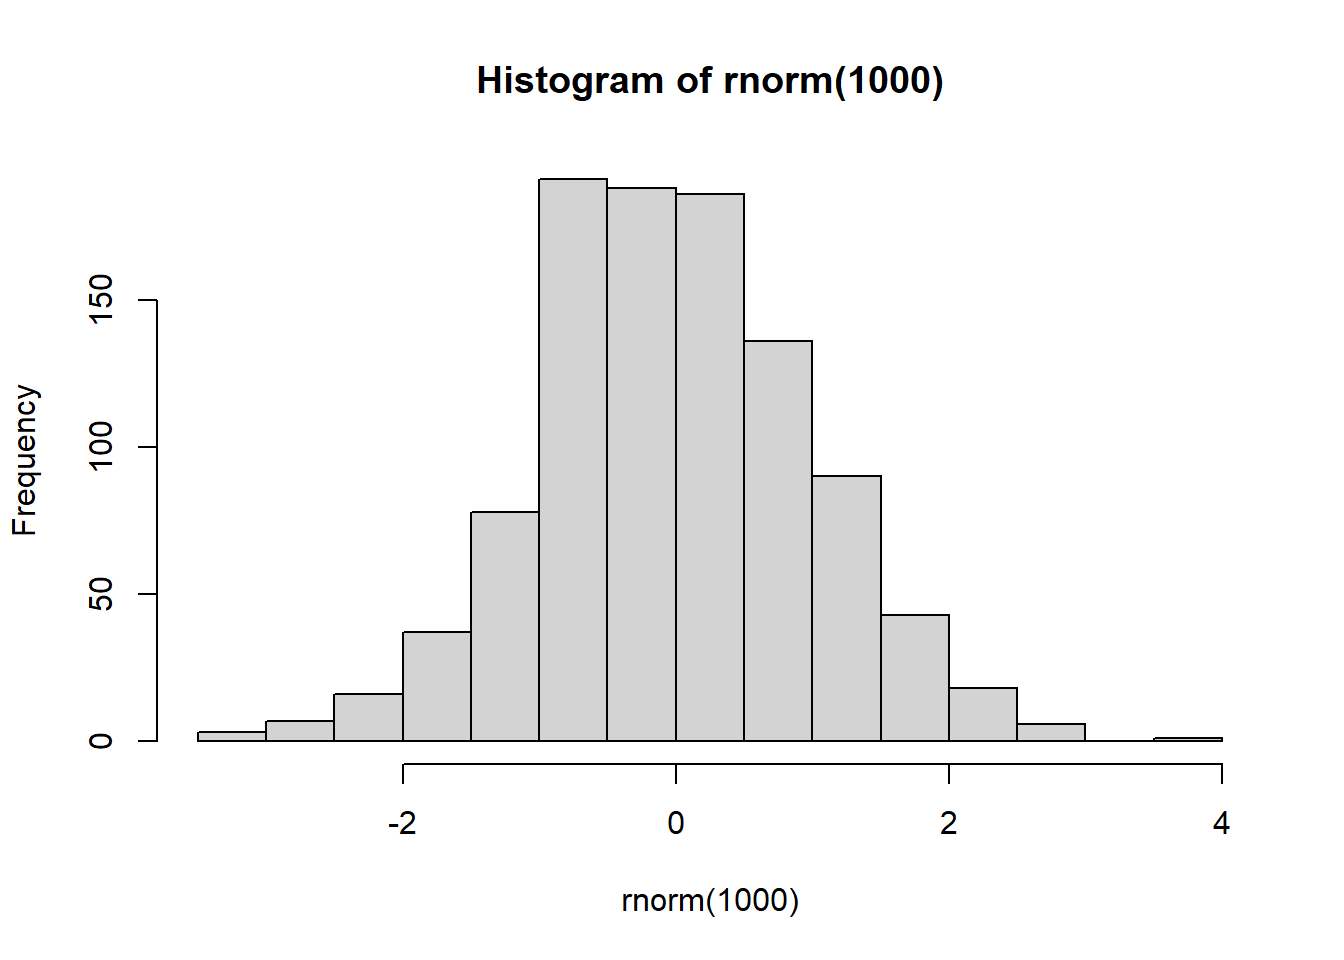
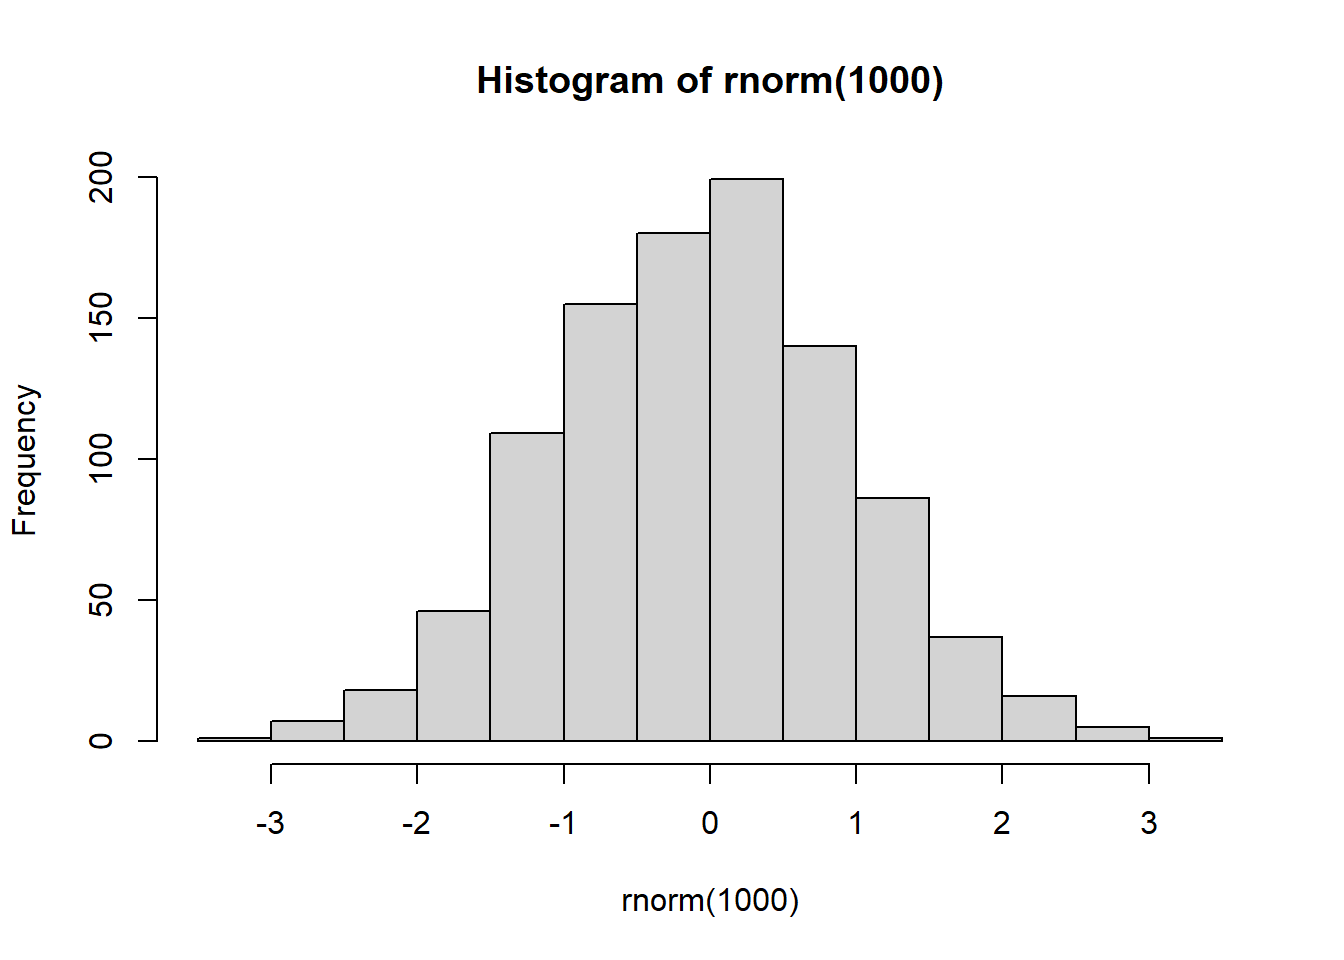
Oi

diff --git a/exercício_aula8_R_IsabelaGDeus.html b/exercício_aula8_R_IsabelaGDeus.html
@@ -104,6 +104,8 @@ pre > code.sourceCode > span > a:first-child::before { text-decoration: underlin
 </header>
 
 
+<section id="exercício-isabela-g-de-deus---disciplina-r-2026" class="level1">
+<h1>Exercício Isabela G de Deus - Disciplina R 2026</h1>
 <section id="quarto" class="level2">
 <h2 class="anchored" data-anchor-id="quarto">Quarto</h2>
 <p>Quarto enables you to weave together content and executable code into a finished document. To learn more about Quarto see <a href="https://quarto.org" class="uri">https://quarto.org</a>.</p>
@@ -134,6 +136,7 @@ pre > code.sourceCode > span > a:first-child::before { text-decoration: underlin
 </div>
 </div>
 </div>
+</section>
 </section>
 <section id="aprendendo-a-usar-o-quarto" class="level1">
 <h1>Aprendendo a usar o QUARTO</h1>
